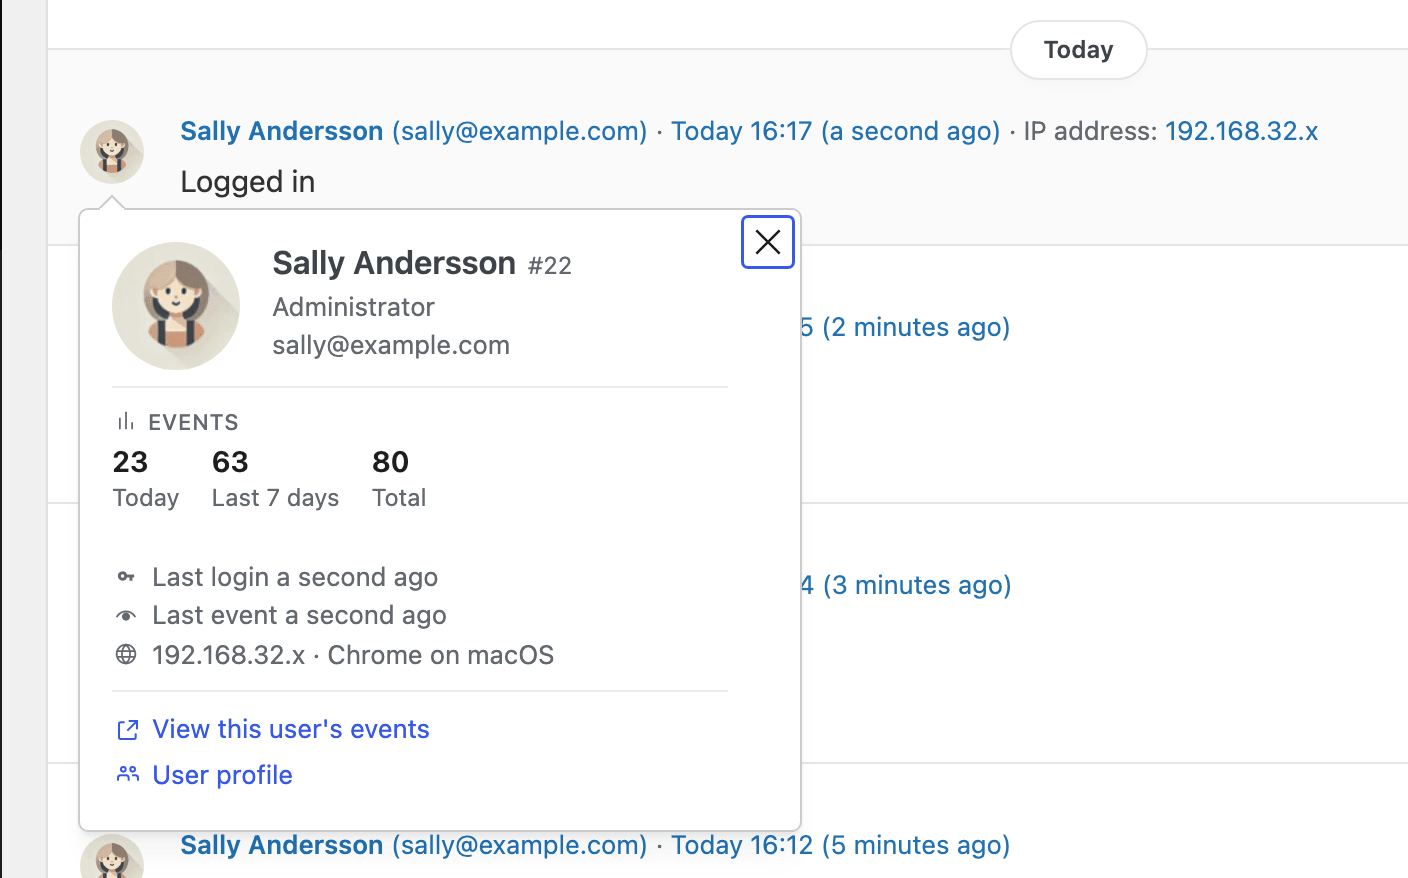
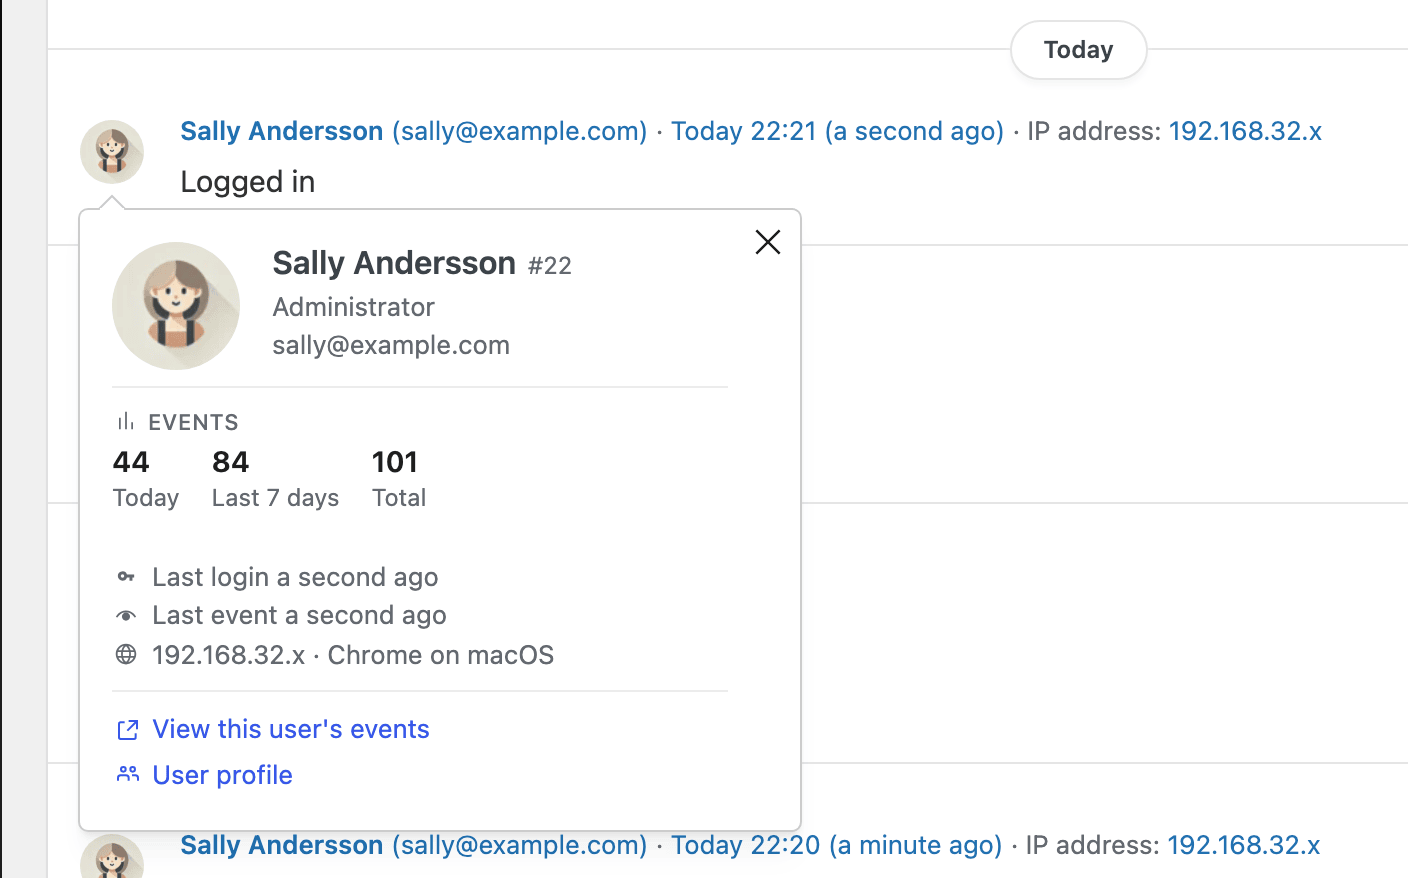
Drop focus styling from popover close button in screenshots
The WP Popover programmatically focuses its close (×) button on open,
which was bleeding into the marketing screenshot as a blue outline
around the ×. Click the avatar (non-focusable) after the close-up shot
to move focus to <body> without dismissing the popover, then capture
the context shot. Regenerate the four teaser PNGs.

diff --git a/tests/playwright/screenshot-teaser-user-card.spec.js b/tests/playwright/screenshot-teaser-user-card.spec.js
@@ -228,6 +228,15 @@ test( `capture user card popover (${ MODE })`, async ( { page } ) => {
 		return { x: r.x, y: r.y, width: r.width, height: r.height };
 	}, triggerHandle );
 
+	// WP Popover programmatically focuses its close (×) button on open, and
+	// the resulting outline reads as "the user is hovering the close
+	// button" in the marketing asset. A click on a non-interactive area
+	// inside the card moves focus off the close button without dismissing
+	// the popover (only focusable elements receive focus; the avatar img
+	// doesn't qualify, so activeElement falls back to <body>).
+	await page.locator( '.sh-UserCard__avatar' ).first().click();
+	await page.waitForTimeout( 100 );
+
 	if ( rowBox ) {
 		const PAD = 24;
 		const left = Math.max( 0, Math.min( popoverBox.x, rowBox.x ) - PAD );
